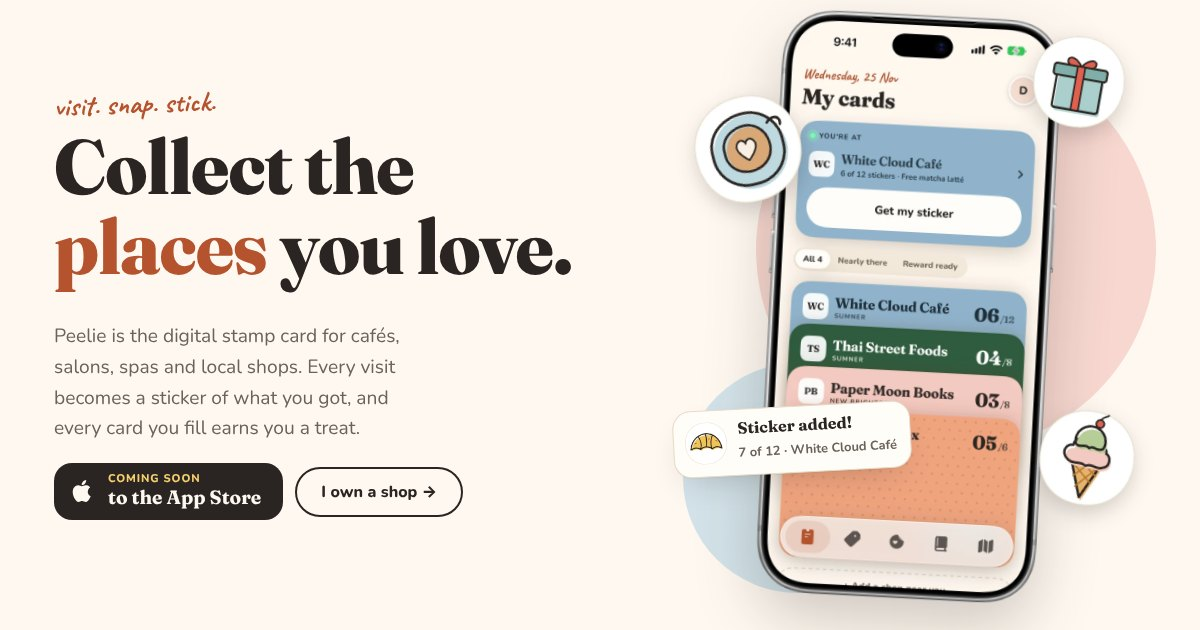
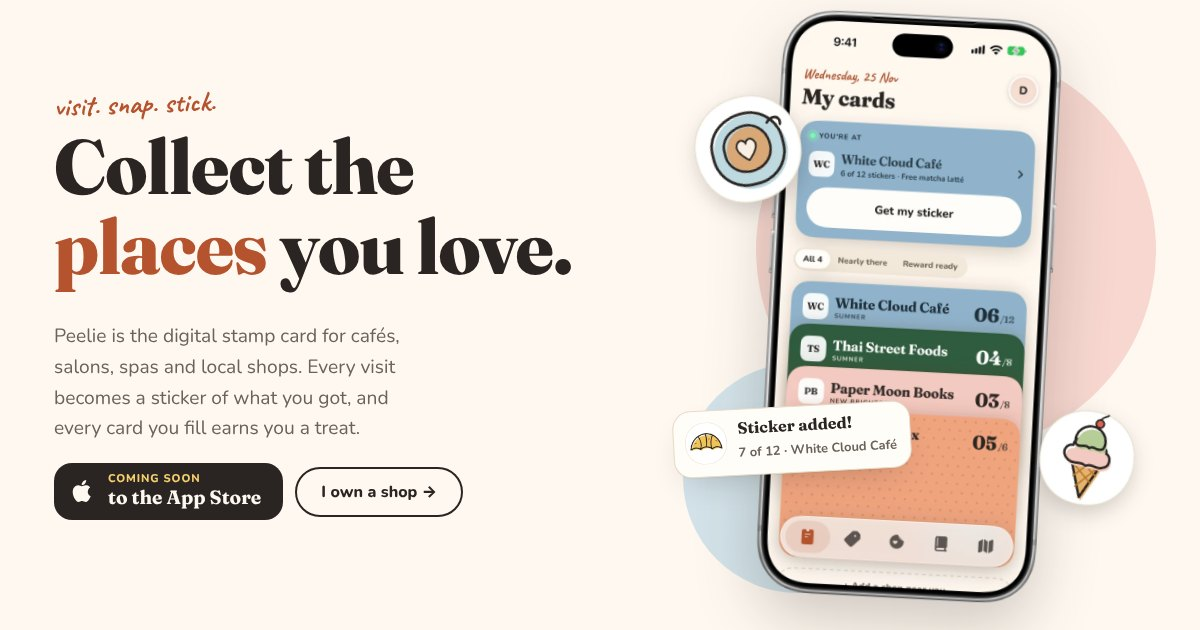
Peelie: remove the gift sticker; stop stale stylesheets breaking the page
Cloudflare lets browsers keep peelie.css for 4 hours, so visitors who
had the old file saw the new page unstyled (giant icons, plain menu,
gift sticker over the phone). The stylesheet link now carries a version
tag from the file's contents, so each update is fetched fresh, and the
business icons have a fixed size in the page itself. The gift sticker
is removed from the hero, share image and Projects thumbnail.

Claude-Session: https://claude.ai/code/session_01LCUTWL3Er8BxxZzStBKY27

Changed region(s): [[0.8633, 0.0603, 0.925, 0.2111]]

diff --git a/peelieapp/index.html b/peelieapp/index.html
@@ -29,7 +29,7 @@
 <link rel="preconnect" href="https://fonts.googleapis.com">
 <link rel="preconnect" href="https://fonts.gstatic.com" crossorigin>
 <link href="https://fonts.googleapis.com/css2?family=Caveat:wght@700&family=Fraunces:opsz,wght@9..144,600;9..144,700;9..144,800&family=Nunito:wght@400;600;700;800&display=swap" rel="stylesheet">
-<link rel="stylesheet" href="/peelieapp/peelie.css">
+<link rel="stylesheet" href="/peelieapp/peelie.css?v=ea929a9608">
 
 <!-- GA4 on the live domains only (same as the rest of wcloud.nz). -->
 <script>
@@ -229,7 +229,6 @@
       </div>
       <div class="hero-art">
         <img class="stk s1" src="/peelieapp/img/sticker-flatwhite.webp" alt="" width="112" height="112">
-        <img class="stk s3" src="/peelieapp/img/sticker-gift.webp" alt="" width="96" height="96">
         <img class="phone" fetchpriority="high" src="/peelieapp/img/phone-01-my-cards.webp" alt="Peelie's My cards screen: a stack of stamp cards from local shops, with a Get my sticker button" width="700" height="1431">
         <div class="toast" aria-hidden="true"><img src="/peelieapp/img/sticker-croissant.webp" alt=""><div><b>Sticker added!</b><small>7 of 12 · White Cloud Café</small></div></div>
         <img class="stk s2" src="/peelieapp/img/sticker-icecream.webp" alt="" width="100" height="100">
@@ -325,37 +324,37 @@
       </div>
       <div class="uses">
         <article class="use">
-          <div class="dot" style="background:var(--p-pink-2)"><svg viewBox="0 0 24 24" fill="none" stroke="#2A2522" stroke-width="1.9" stroke-linecap="round" stroke-linejoin="round" aria-hidden="true"><circle cx="6" cy="6" r="3"/><circle cx="6" cy="18" r="3"/><path d="M20 4 8.1 15.9M14.5 14.5 20 20M8.1 8.1 12 12"/></svg></div>
+          <div class="dot" style="background:var(--p-pink-2)"><svg width="24" height="24" viewBox="0 0 24 24" fill="none" stroke="#2A2522" stroke-width="1.9" stroke-linecap="round" stroke-linejoin="round" aria-hidden="true"><circle cx="6" cy="6" r="3"/><circle cx="6" cy="18" r="3"/><path d="M20 4 8.1 15.9M14.5 14.5 20 20M8.1 8.1 12 12"/></svg></div>
           <h3>Hair salons &amp; barbers</h3>
           <p class="stk-line"><span>sticker:</span> a selfie of your fresh cut</p>
           <p class="eg">Every 6th cut comes with a free treatment.</p>
         </article>
         <article class="use">
-          <div class="dot" style="background:var(--p-blue-2)"><svg viewBox="0 0 24 24" fill="none" stroke="#2A2522" stroke-width="1.9" stroke-linecap="round" stroke-linejoin="round" aria-hidden="true"><path d="M9 10h6v10a1 1 0 0 1-1 1h-4a1 1 0 0 1-1-1z"/><path d="M10.5 10V6.5a1.5 1.5 0 0 1 3 0V10"/><path d="M12 5V3"/></svg></div>
+          <div class="dot" style="background:var(--p-blue-2)"><svg width="24" height="24" viewBox="0 0 24 24" fill="none" stroke="#2A2522" stroke-width="1.9" stroke-linecap="round" stroke-linejoin="round" aria-hidden="true"><path d="M9 10h6v10a1 1 0 0 1-1 1h-4a1 1 0 0 1-1-1z"/><path d="M10.5 10V6.5a1.5 1.5 0 0 1 3 0V10"/><path d="M12 5V3"/></svg></div>
           <h3>Nail salons</h3>
           <p class="stk-line"><span>sticker:</span> your new set of nails</p>
           <p class="eg">8 visits gets you a free gel top-up.</p>
         </article>
         <article class="use">
-          <div class="dot" style="background:var(--p-terra)"><svg viewBox="0 0 24 24" fill="none" stroke="#2A2522" stroke-width="1.9" stroke-linecap="round" stroke-linejoin="round" aria-hidden="true"><path d="M12 20c-4-2-7-5-7-9 2.5 0 5 1 7 3 2-2 4.5-3 7-3 0 4-3 7-7 9z"/><path d="M12 14c-1.5-2-1.5-5 0-8 1.5 3 1.5 6 0 8z"/></svg></div>
+          <div class="dot" style="background:var(--p-terra)"><svg width="24" height="24" viewBox="0 0 24 24" fill="none" stroke="#2A2522" stroke-width="1.9" stroke-linecap="round" stroke-linejoin="round" aria-hidden="true"><path d="M12 20c-4-2-7-5-7-9 2.5 0 5 1 7 3 2-2 4.5-3 7-3 0 4-3 7-7 9z"/><path d="M12 14c-1.5-2-1.5-5 0-8 1.5 3 1.5 6 0 8z"/></svg></div>
           <h3>Massage &amp; day spas</h3>
           <p class="stk-line"><span>sticker:</span> a calm moment after your treatment</p>
           <p class="eg">Your 10th massage is on us.</p>
         </article>
         <article class="use">
-          <div class="dot" style="background:var(--p-pink-2)"><svg viewBox="0 0 24 24" fill="none" stroke="#2A2522" stroke-width="1.9" stroke-linecap="round" stroke-linejoin="round" aria-hidden="true"><path d="M3 8a2 2 0 0 1 2-2h2l1.5-2h7L17 6h2a2 2 0 0 1 2 2v10a2 2 0 0 1-2 2H5a2 2 0 0 1-2-2z"/><circle cx="12" cy="13" r="3.5"/></svg></div>
+          <div class="dot" style="background:var(--p-pink-2)"><svg width="24" height="24" viewBox="0 0 24 24" fill="none" stroke="#2A2522" stroke-width="1.9" stroke-linecap="round" stroke-linejoin="round" aria-hidden="true"><path d="M3 8a2 2 0 0 1 2-2h2l1.5-2h7L17 6h2a2 2 0 0 1 2 2v10a2 2 0 0 1-2 2H5a2 2 0 0 1-2-2z"/><circle cx="12" cy="13" r="3.5"/></svg></div>
           <h3>Photography studios</h3>
           <p class="stk-line"><span>sticker:</span> a favourite shot from your session</p>
           <p class="eg">3 mini-sessions and your next prints are free.</p>
         </article>
         <article class="use">
-          <div class="dot" style="background:var(--p-blue-2)"><svg viewBox="0 0 24 24" fill="none" stroke="#2A2522" stroke-width="1.9" stroke-linecap="round" stroke-linejoin="round" aria-hidden="true"><path d="M4 5a1 1 0 0 1 1-1h5a2 2 0 0 1 2 2v14a1.5 1.5 0 0 0-1.5-1.5H5a1 1 0 0 1-1-1z"/><path d="M20 5a1 1 0 0 0-1-1h-5a2 2 0 0 0-2 2v14a1.5 1.5 0 0 1 1.5-1.5H19a1 1 0 0 0 1-1z"/></svg></div>
+          <div class="dot" style="background:var(--p-blue-2)"><svg width="24" height="24" viewBox="0 0 24 24" fill="none" stroke="#2A2522" stroke-width="1.9" stroke-linecap="round" stroke-linejoin="round" aria-hidden="true"><path d="M4 5a1 1 0 0 1 1-1h5a2 2 0 0 1 2 2v14a1.5 1.5 0 0 0-1.5-1.5H5a1 1 0 0 1-1-1z"/><path d="M20 5a1 1 0 0 0-1-1h-5a2 2 0 0 0-2 2v14a1.5 1.5 0 0 1 1.5-1.5H19a1 1 0 0 0 1-1z"/></svg></div>
           <h3>Bookshops</h3>
           <p class="stk-line"><span>sticker:</span> the cover of your new read</p>
           <p class="eg">10 books gets you $15 off the next one.</p>
         </article>
         <article class="use">
-          <div class="dot" style="background:var(--p-terra)"><svg viewBox="0 0 24 24" fill="none" stroke="#2A2522" stroke-width="1.9" stroke-linecap="round" stroke-linejoin="round" aria-hidden="true"><rect x="3" y="9" width="18" height="12" rx="1.5"/><path d="M12 9v12M3 13h18"/><path d="M12 9c-1.5-3-5-4-5.5-2S9 9 12 9c3 0 6-.5 5.5-2s-4-1-5.5 2z"/></svg></div>
+          <div class="dot" style="background:var(--p-terra)"><svg width="24" height="24" viewBox="0 0 24 24" fill="none" stroke="#2A2522" stroke-width="1.9" stroke-linecap="round" stroke-linejoin="round" aria-hidden="true"><rect x="3" y="9" width="18" height="12" rx="1.5"/><path d="M12 9v12M3 13h18"/><path d="M12 9c-1.5-3-5-4-5.5-2S9 9 12 9c3 0 6-.5 5.5-2s-4-1-5.5 2z"/></svg></div>
           <h3>Gift &amp; toy shops</h3>
           <p class="stk-line"><span>sticker:</span> the little thing you found</p>
           <p class="eg">$10 off any toy after 6 visits.</p>
@@ -378,32 +377,32 @@
 
       <div class="perks">
         <article class="perk">
-          <div class="dot" style="background:var(--p-pink-2)"><svg viewBox="0 0 24 24" fill="none" stroke="#2A2522" stroke-width="2" stroke-linecap="round" stroke-linejoin="round" aria-hidden="true"><rect x="3" y="5" width="18" height="14" rx="3"/><circle cx="8.5" cy="12" r="2"/><path d="M13 10h5M13 14h3"/></svg></div>
+          <div class="dot" style="background:var(--p-pink-2)"><svg width="24" height="24" viewBox="0 0 24 24" fill="none" stroke="#2A2522" stroke-width="2" stroke-linecap="round" stroke-linejoin="round" aria-hidden="true"><rect x="3" y="5" width="18" height="14" rx="3"/><circle cx="8.5" cy="12" r="2"/><path d="M13 10h5M13 14h3"/></svg></div>
           <h3>Design your card</h3>
           <p>Pick a look, your colour or a photo, the reward, how many stickers fill a card, and a minimum spend.</p>
         </article>
         <article class="perk">
-          <div class="dot" style="background:var(--p-terra)"><svg viewBox="0 0 24 24" fill="none" stroke="#2A2522" stroke-width="2" stroke-linecap="round" stroke-linejoin="round" aria-hidden="true"><path d="M3 7V5a2 2 0 0 1 2-2h2M17 3h2a2 2 0 0 1 2 2v2M21 17v2a2 2 0 0 1-2 2h-2M7 21H5a2 2 0 0 1-2-2v-2"/><path d="M7 12h10"/></svg></div>
+          <div class="dot" style="background:var(--p-terra)"><svg width="24" height="24" viewBox="0 0 24 24" fill="none" stroke="#2A2522" stroke-width="2" stroke-linecap="round" stroke-linejoin="round" aria-hidden="true"><path d="M3 7V5a2 2 0 0 1 2-2h2M17 3h2a2 2 0 0 1 2 2v2M21 17v2a2 2 0 0 1-2 2h-2M7 21H5a2 2 0 0 1-2-2v-2"/><path d="M7 12h10"/></svg></div>
           <h3>Scan to give a sticker</h3>
           <p>Staff check in once a shift with their own PIN, then scan the customer's code. You can see who gave what.</p>
         </article>
         <article class="perk">
-          <div class="dot" style="background:var(--p-blue-2)"><svg viewBox="0 0 24 24" fill="none" stroke="#2A2522" stroke-width="2" stroke-linecap="round" stroke-linejoin="round" aria-hidden="true"><path d="M4 20V10M10 20V4M16 20v-7M22 20H2"/></svg></div>
+          <div class="dot" style="background:var(--p-blue-2)"><svg width="24" height="24" viewBox="0 0 24 24" fill="none" stroke="#2A2522" stroke-width="2" stroke-linecap="round" stroke-linejoin="round" aria-hidden="true"><path d="M4 20V10M10 20V4M16 20v-7M22 20H2"/></svg></div>
           <h3>Analytics in plain English</h3>
           <p>Visits, your busiest day, and where customers drop off, written as a short story about your month.</p>
         </article>
         <article class="perk">
-          <div class="dot" style="background:var(--p-pink-2)"><svg viewBox="0 0 24 24" fill="none" stroke="#2A2522" stroke-width="2" stroke-linecap="round" stroke-linejoin="round" aria-hidden="true"><path d="M3 11v2a1 1 0 0 0 1 1h2l5 4V6L6 10H4a1 1 0 0 0-1 1zM16 8a5 5 0 0 1 0 8M19 5a9 9 0 0 1 0 14"/></svg></div>
+          <div class="dot" style="background:var(--p-pink-2)"><svg width="24" height="24" viewBox="0 0 24 24" fill="none" stroke="#2A2522" stroke-width="2" stroke-linecap="round" stroke-linejoin="round" aria-hidden="true"><path d="M3 11v2a1 1 0 0 0 1 1h2l5 4V6L6 10H4a1 1 0 0 0-1 1zM16 8a5 5 0 0 1 0 8M19 5a9 9 0 0 1 0 14"/></svg></div>
           <h3>Ads &amp; offers</h3>
           <p>Post offers that show on your card. Send one as a notification to customers who've switched on your promotions, up to twice a week.</p>
         </article>
         <article class="perk">
-          <div class="dot" style="background:var(--p-blue-2)"><svg viewBox="0 0 24 24" fill="none" stroke="#2A2522" stroke-width="2" stroke-linecap="round" stroke-linejoin="round" aria-hidden="true"><rect x="3" y="3" width="7" height="7" rx="1"/><rect x="14" y="3" width="7" height="7" rx="1"/><rect x="3" y="14" width="7" height="7" rx="1"/><path d="M14 14h3v3h-3zM20 14v.01M14 20h.01M17 20h4v-3"/></svg></div>
+          <div class="dot" style="background:var(--p-blue-2)"><svg width="24" height="24" viewBox="0 0 24 24" fill="none" stroke="#2A2522" stroke-width="2" stroke-linecap="round" stroke-linejoin="round" aria-hidden="true"><rect x="3" y="3" width="7" height="7" rx="1"/><rect x="14" y="3" width="7" height="7" rx="1"/><rect x="3" y="14" width="7" height="7" rx="1"/><path d="M14 14h3v3h-3zM20 14v.01M14 20h.01M17 20h4v-3"/></svg></div>
           <h3>A poster for your window</h3>
           <p>Print a poster with your own QR code. Customers scan it and your card's on their phone.</p>
         </article>
         <article class="perk">
-          <div class="dot" style="background:#E6DACA"><svg viewBox="0 0 24 24" fill="none" stroke="#2A2522" stroke-width="2" stroke-linecap="round" stroke-linejoin="round" aria-hidden="true"><path d="M12 3 4 6v6c0 4.5 3.4 8.3 8 9 4.6-.7 8-4.5 8-9V6l-8-3z"/><path d="m9 12 2 2 4-4"/></svg></div>
+          <div class="dot" style="background:#E6DACA"><svg width="24" height="24" viewBox="0 0 24 24" fill="none" stroke="#2A2522" stroke-width="2" stroke-linecap="round" stroke-linejoin="round" aria-hidden="true"><path d="M12 3 4 6v6c0 4.5 3.4 8.3 8 9 4.6-.7 8-4.5 8-9V6l-8-3z"/><path d="m9 12 2 2 4-4"/></svg></div>
           <h3>Cheat-proof</h3>
           <p>Only your staff can give stickers, one per customer every 3 hours, with a log of every shift and an alert if anything looks unusual.</p>
         </article>

diff --git a/peelieapp/peelie.css b/peelieapp/peelie.css
@@ -301,9 +301,7 @@ section { padding: 88px 0; }
 @media (max-width: 900px) { .menu-btn { display: grid; } }
 @media (min-width: 901px) { .top .menu-panel { display: none !important; } }
 @media (prefers-reduced-motion: reduce) { .menu-btn path { transition: none; } }
-.stk.s3 { right: 4%; top: 4%; width: 96px; transform: rotate(10deg); }
-@media (max-width: 560px) { .stk.s3 { width: 70px; right: 2%; top: 2%; } }
-
+@media (max-width: 560px) { 
 /* "Any place with regulars": example businesses */
 .uses { display: grid; grid-template-columns: repeat(3, 1fr); gap: 18px; }
 .use { background: var(--surface); border: 1px solid var(--line); border-radius: 22px; padding: 22px; box-shadow: 0 10px 26px -20px rgba(42,37,34,.4); }

diff --git a/peelieapp/privacy/index.html b/peelieapp/privacy/index.html
@@ -29,7 +29,7 @@
 <link rel="preconnect" href="https://fonts.googleapis.com">
 <link rel="preconnect" href="https://fonts.gstatic.com" crossorigin>
 <link href="https://fonts.googleapis.com/css2?family=Caveat:wght@700&family=Fraunces:opsz,wght@9..144,600;9..144,700;9..144,800&family=Nunito:wght@400;600;700;800&display=swap" rel="stylesheet">
-<link rel="stylesheet" href="/peelieapp/peelie.css">
+<link rel="stylesheet" href="/peelieapp/peelie.css?v=ea929a9608">
 
 <!-- GA4 on the live domains only (same as the rest of wcloud.nz). -->
 <script>

diff --git a/peelieapp/support/index.html b/peelieapp/support/index.html
@@ -29,7 +29,7 @@
 <link rel="preconnect" href="https://fonts.googleapis.com">
 <link rel="preconnect" href="https://fonts.gstatic.com" crossorigin>
 <link href="https://fonts.googleapis.com/css2?family=Caveat:wght@700&family=Fraunces:opsz,wght@9..144,600;9..144,700;9..144,800&family=Nunito:wght@400;600;700;800&display=swap" rel="stylesheet">
-<link rel="stylesheet" href="/peelieapp/peelie.css">
+<link rel="stylesheet" href="/peelieapp/peelie.css?v=ea929a9608">
 
 <!-- GA4 on the live domains only (same as the rest of wcloud.nz). -->
 <script>
